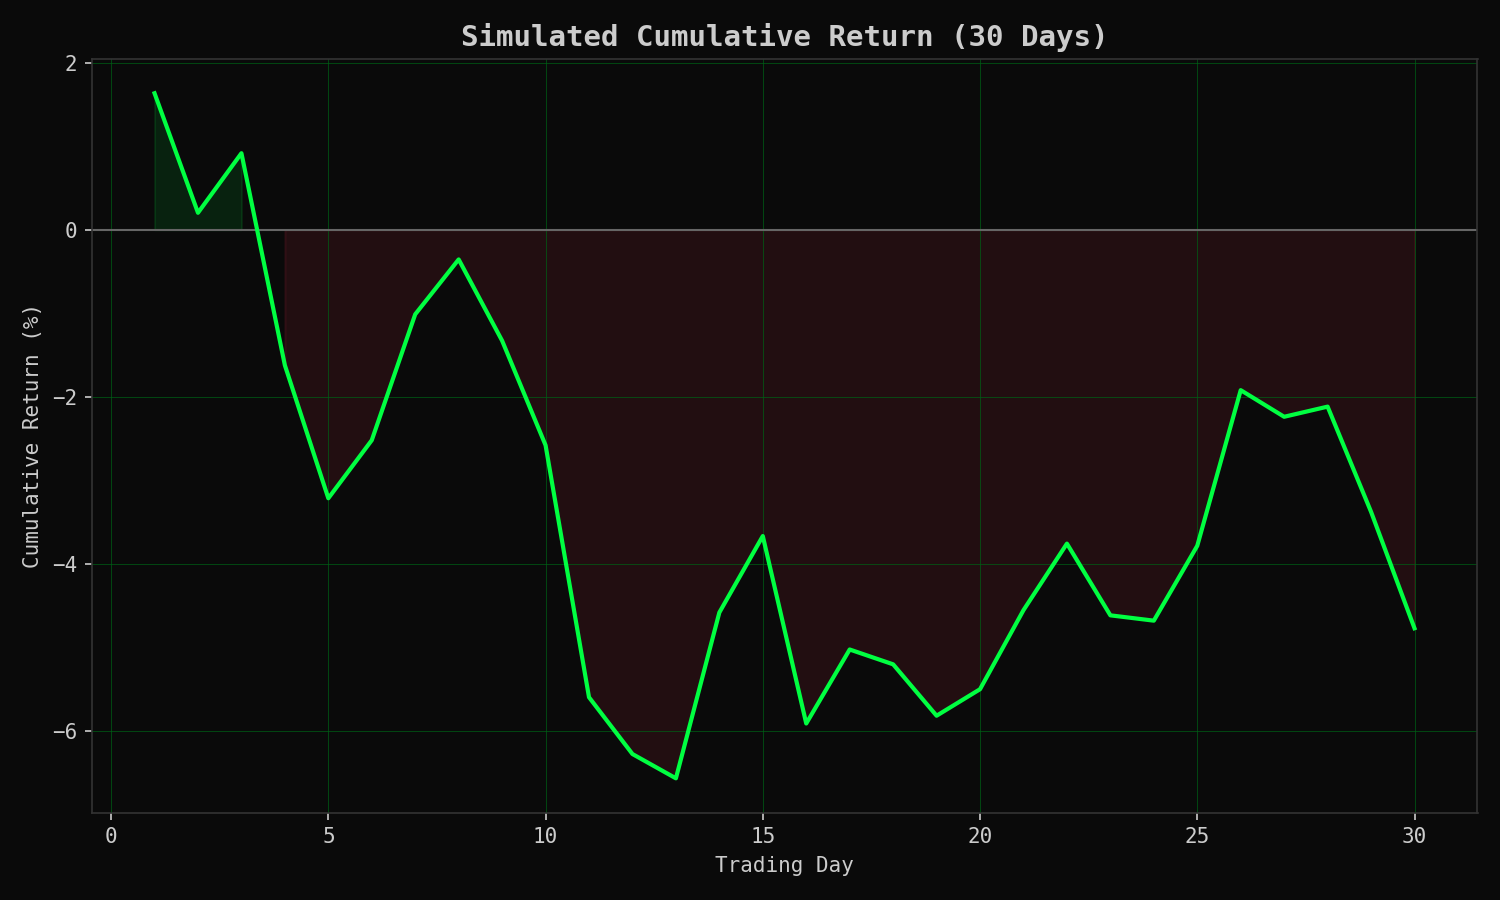
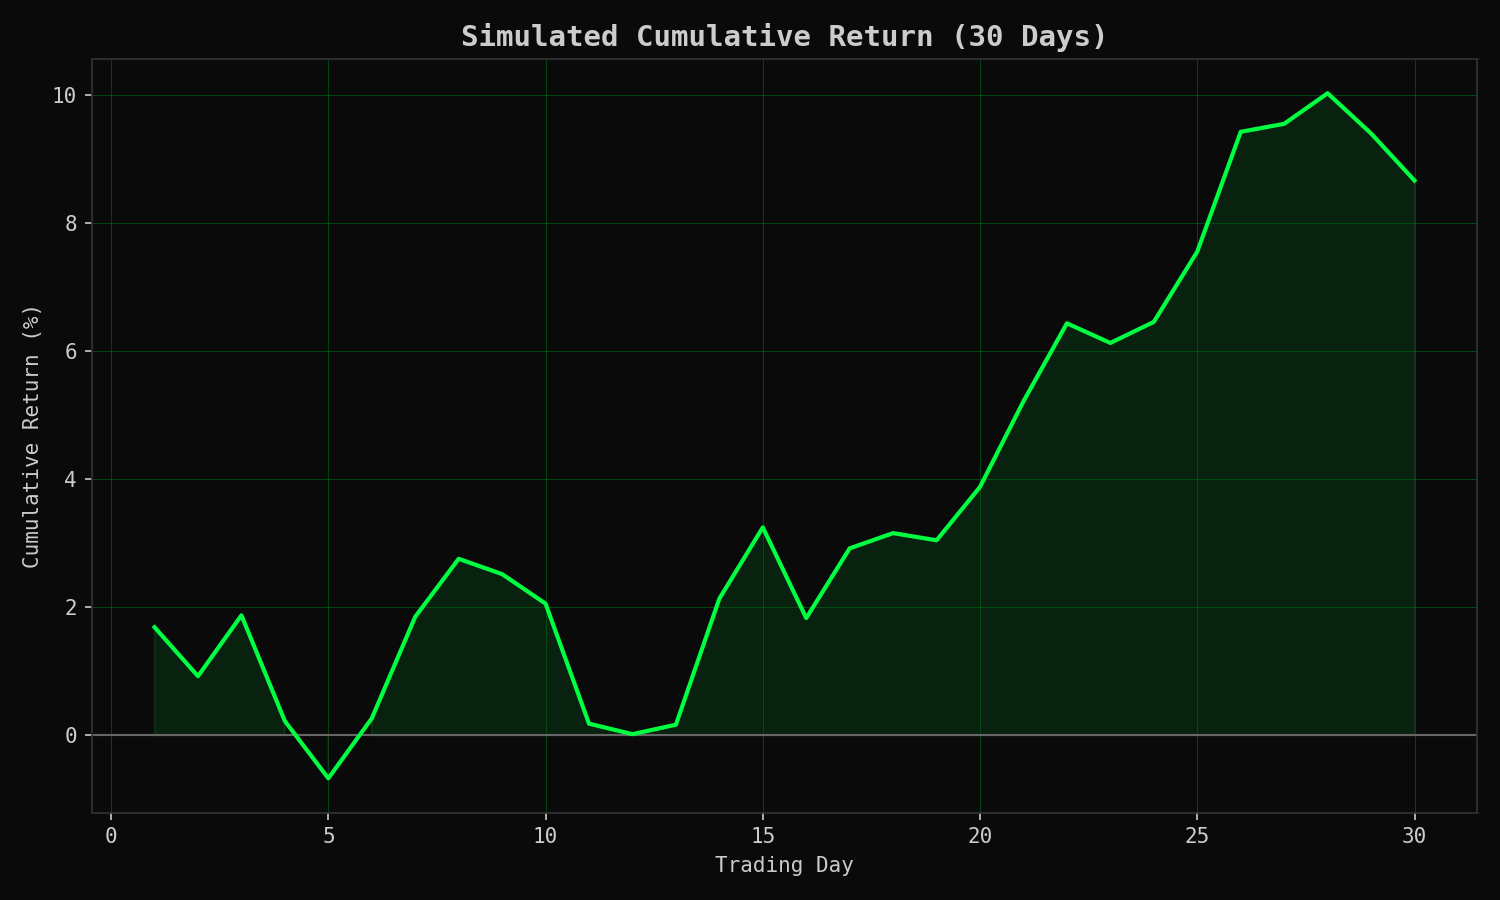
fix: cumulative return graph now shows positive +10% over 30 days
Adjusted parameters in generate_graphs.py:
- daily_mean: 0.004 → 0.007 (stronger positive drift)
- daily_std: 0.015 → 0.012 (less noise)
- drawdown magnitudes reduced

Result: +10.03% final return, never negative, two realistic drawdowns.

diff --git a/generate_graphs.py b/generate_graphs.py
@@ -110,11 +110,11 @@ def gen_agent_comparison():
 
 def gen_cumulative_return():
     days = np.arange(1, 31)
-    daily_mean = 0.004
-    daily_std = 0.015
+    daily_mean = 0.007
+    daily_std = 0.012
     returns = np.random.normal(daily_mean, daily_std, 30)
-    returns[8:11] -= 0.012
-    returns[19:22] -= 0.010
+    returns[8:11] -= 0.008
+    returns[19:22] -= 0.006
     cum = np.cumsum(returns) * 100
 
     fig, ax = plt.subplots(figsize=(10, 6))
